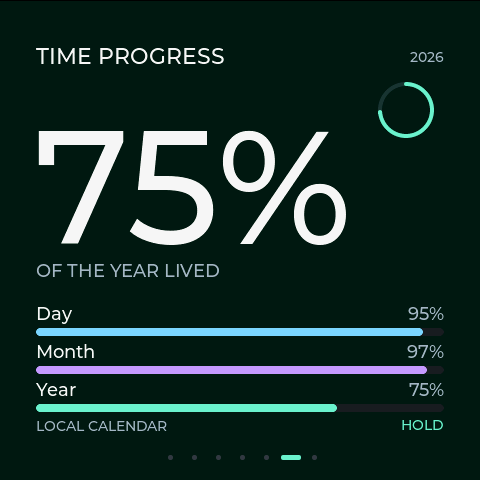
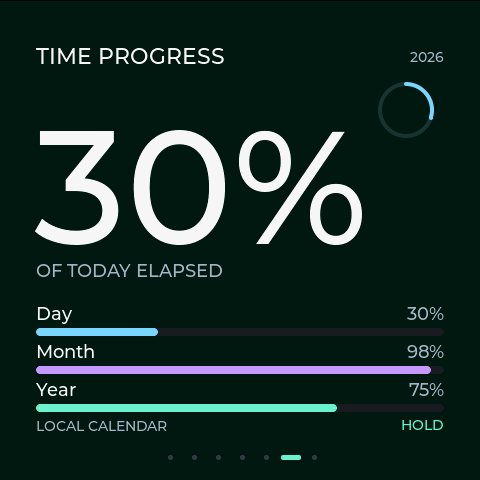
Refresh native clock, weather, and day-progress previews

diff --git a/components/AmoledProductViewer.tsx b/components/AmoledProductViewer.tsx
@@ -8,11 +8,11 @@ import styles from './AmoledProductViewer.module.css'
 
 const WIDGETS = [
   { id: 'clock', name: 'Clock', color: '#79d6ff', description: 'Large, clear time with the date and AM/PM.' },
-  { id: 'weather', name: 'Weather', color: '#ffd46b', description: 'Temperature, conditions, and the details for your day.' },
+  { id: 'weather', name: 'Weather', color: '#ffd46b', description: 'Location, temperature, and the details for your day.' },
   { id: 'runna', name: 'Runna', color: '#99ff77', description: 'The next workout, mileage, and a weekly target.' },
   { id: 'training', name: 'Training', color: '#ff713e', description: 'Strava mileage and run totals in a single glance.' },
   { id: 'nyc-marathon', name: 'NYC Marathon', color: '#47d6f3', description: 'A race countdown and Team for Kids fundraising progress.' },
-  { id: 'time-progress', name: 'Time progress', color: '#6bf2cd', description: 'A colorful view of the day, month, and year.' },
+  { id: 'time-progress', name: 'Time progress', color: '#6bf2cd', description: 'Today’s progress, with month and year context.' },
   { id: 'claude-usage', name: 'Claude usage', color: '#f1aa8c', description: 'Two usage windows, with explicit data freshness.' },
 ] as const
 

diff --git a/docs/amoled-assets.md b/docs/amoled-assets.md
@@ -1,10 +1,10 @@
 The seven images in `public/images/amoled` are 480 × 480 captures from the exact current AMOLED firmware UI compiled against its LVGL dependency on macOS. They are software-rendered firmware previews, not device photographs.
 
-All widget readings use the curated fictional example payload in `docs/amoled-example-payload.json`. This includes training, Runna, Claude usage, weather, and fundraising figures. No private source caches, authentication data, calendar subscriptions, or account records were used. The example source states demonstrate a connected display; the website must identify the readings as example data. The clock and calendar tiles use the renderer's local clock at capture time. The renderer pauses the carousel while capturing each frame, so `HOLD` appears in the native footer.
+All widget readings use the curated fictional example payload in `docs/amoled-example-payload.json`. This includes training, Runna, Claude usage, weather, and fundraising figures. Dallas is the explicit example weather location. No private source caches, authentication data, calendar subscriptions, or account records were used. The example source states demonstrate a connected display; the website must identify the readings as example data. The clock and calendar tiles use the renderer's local clock at capture time. The renderer pauses the carousel while capturing each frame; held widgets show `HOLD` except Clock, which omits that label. A synchronized Clock also omits `LOCAL TIME`.
 
 The frames are `clock.webp`, `weather.webp`, `runna.webp`, `training.webp`, `nyc-marathon.webp`, `time-progress.webp`, and `claude-usage.webp`. Every WebP uses lossless encoding, preserves the renderer's RGB pixels exactly, and was reopened to verify both pixel equality and 480 × 480 dimensions. File sizes and hashes are recorded in `docs/amoled-asset-manifest.json`.
 
-All seven images were refreshed for the approved clean firmware layouts, with larger type, flat backgrounds, and restrained supporting details. Their manifest entries record the native firmware commit, capture time, and refreshed example timestamp; the shared renderer entry records UI/font/artwork source hashes. The readings still come from the same fictional payload.
+Clock, Weather, and Time Progress were refreshed from native UI commit `637a9c9`. Clock has independent 168 px digits and larger supporting type, Weather has a prominent location title, and Time Progress leads with the day percentage while retaining month and year bars. The four other image files and their capture records are unchanged. Each image's manifest entry records its native UI commit, capture time, and example timestamp; the shared renderer entry records the latest UI/font/artwork source hashes. The readings still come from the same fictional payload.
 
 The native UI includes the official Runna app mark, Strava two-chevron app symbol, TCS NYC Marathon artwork, and Claude wordmark. The compact Runna and Strava symbols come directly from their current official websites, with no invented logo geometry. Logo provenance and conversion are retained in the separate hardware project's `assets/source`, `assets/brand_manifest.json`, and `scripts/build_brand_assets.py`.
 
